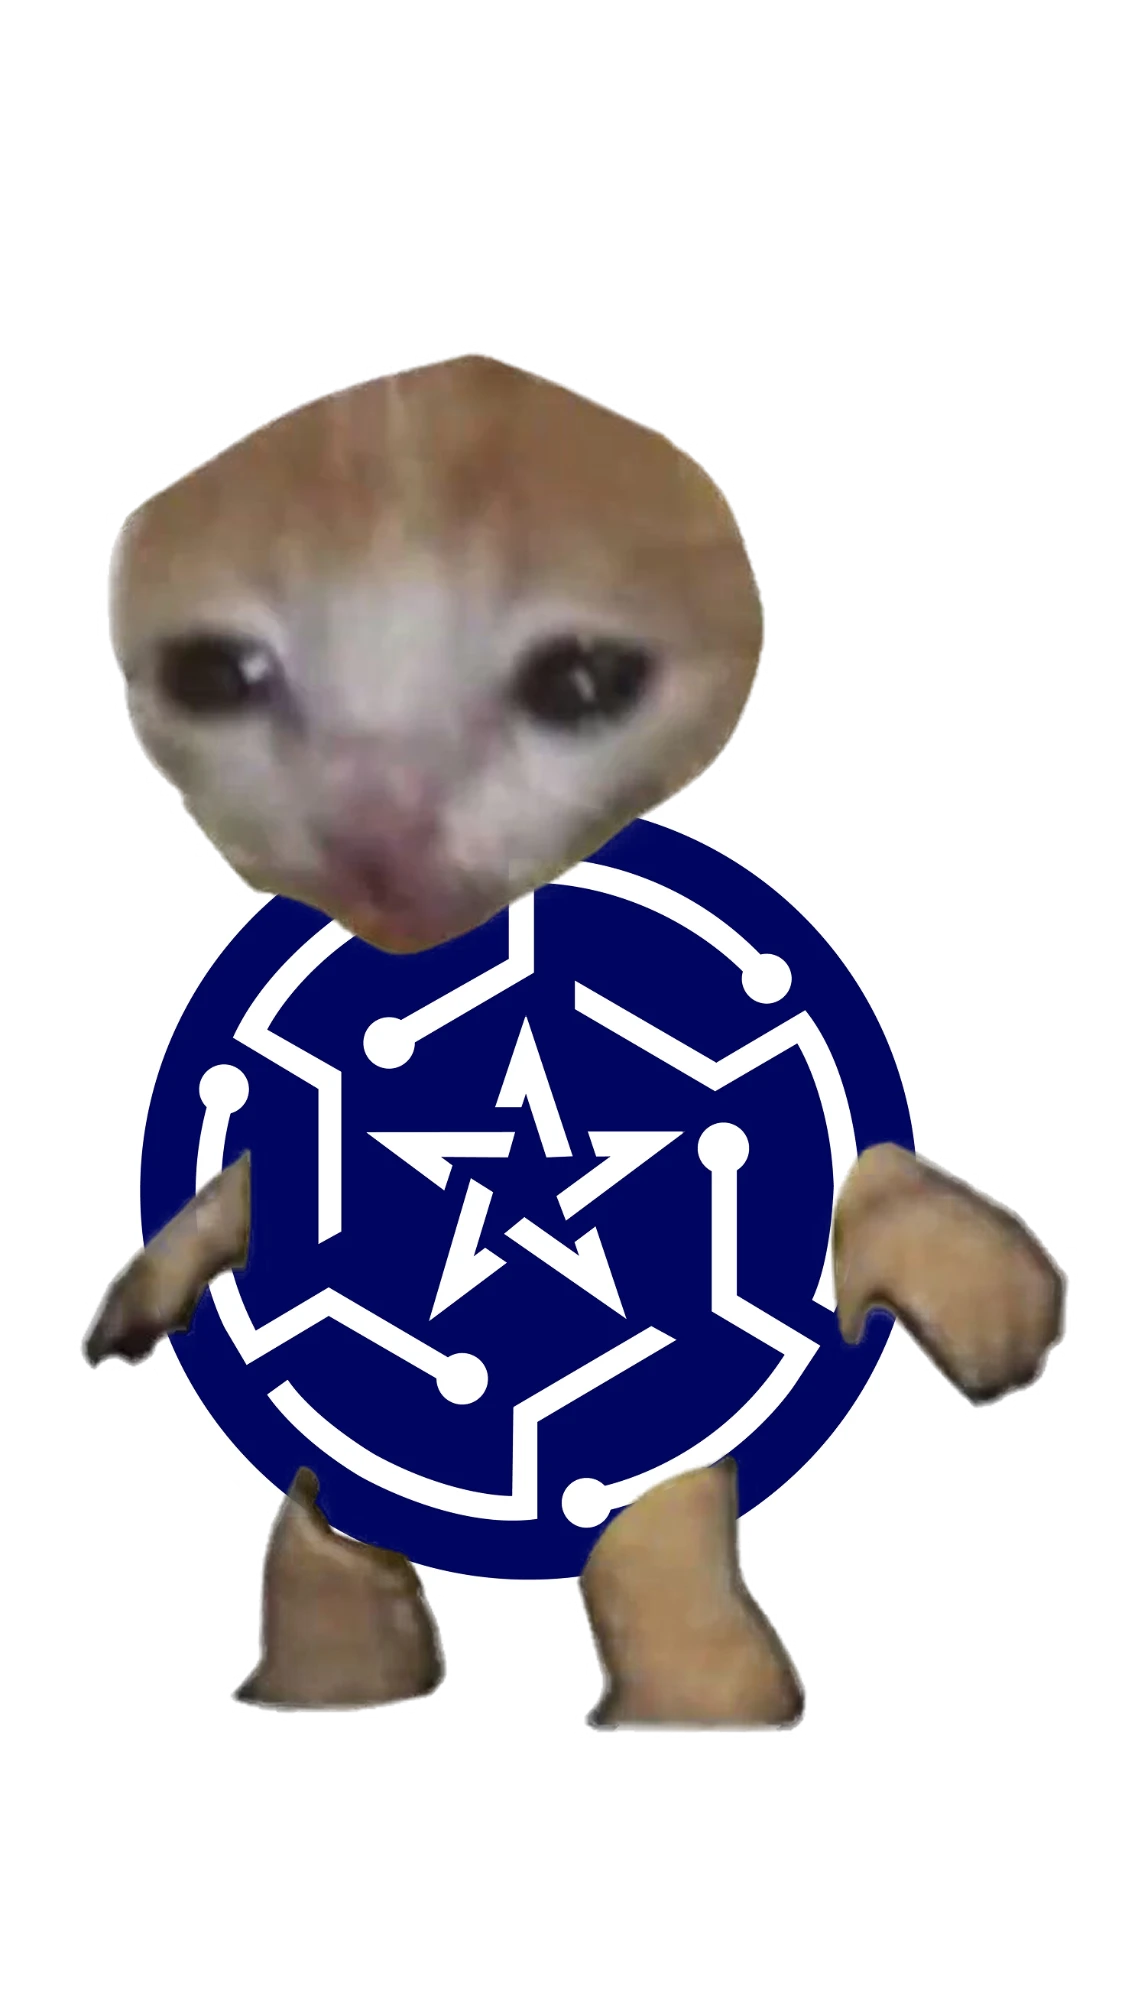
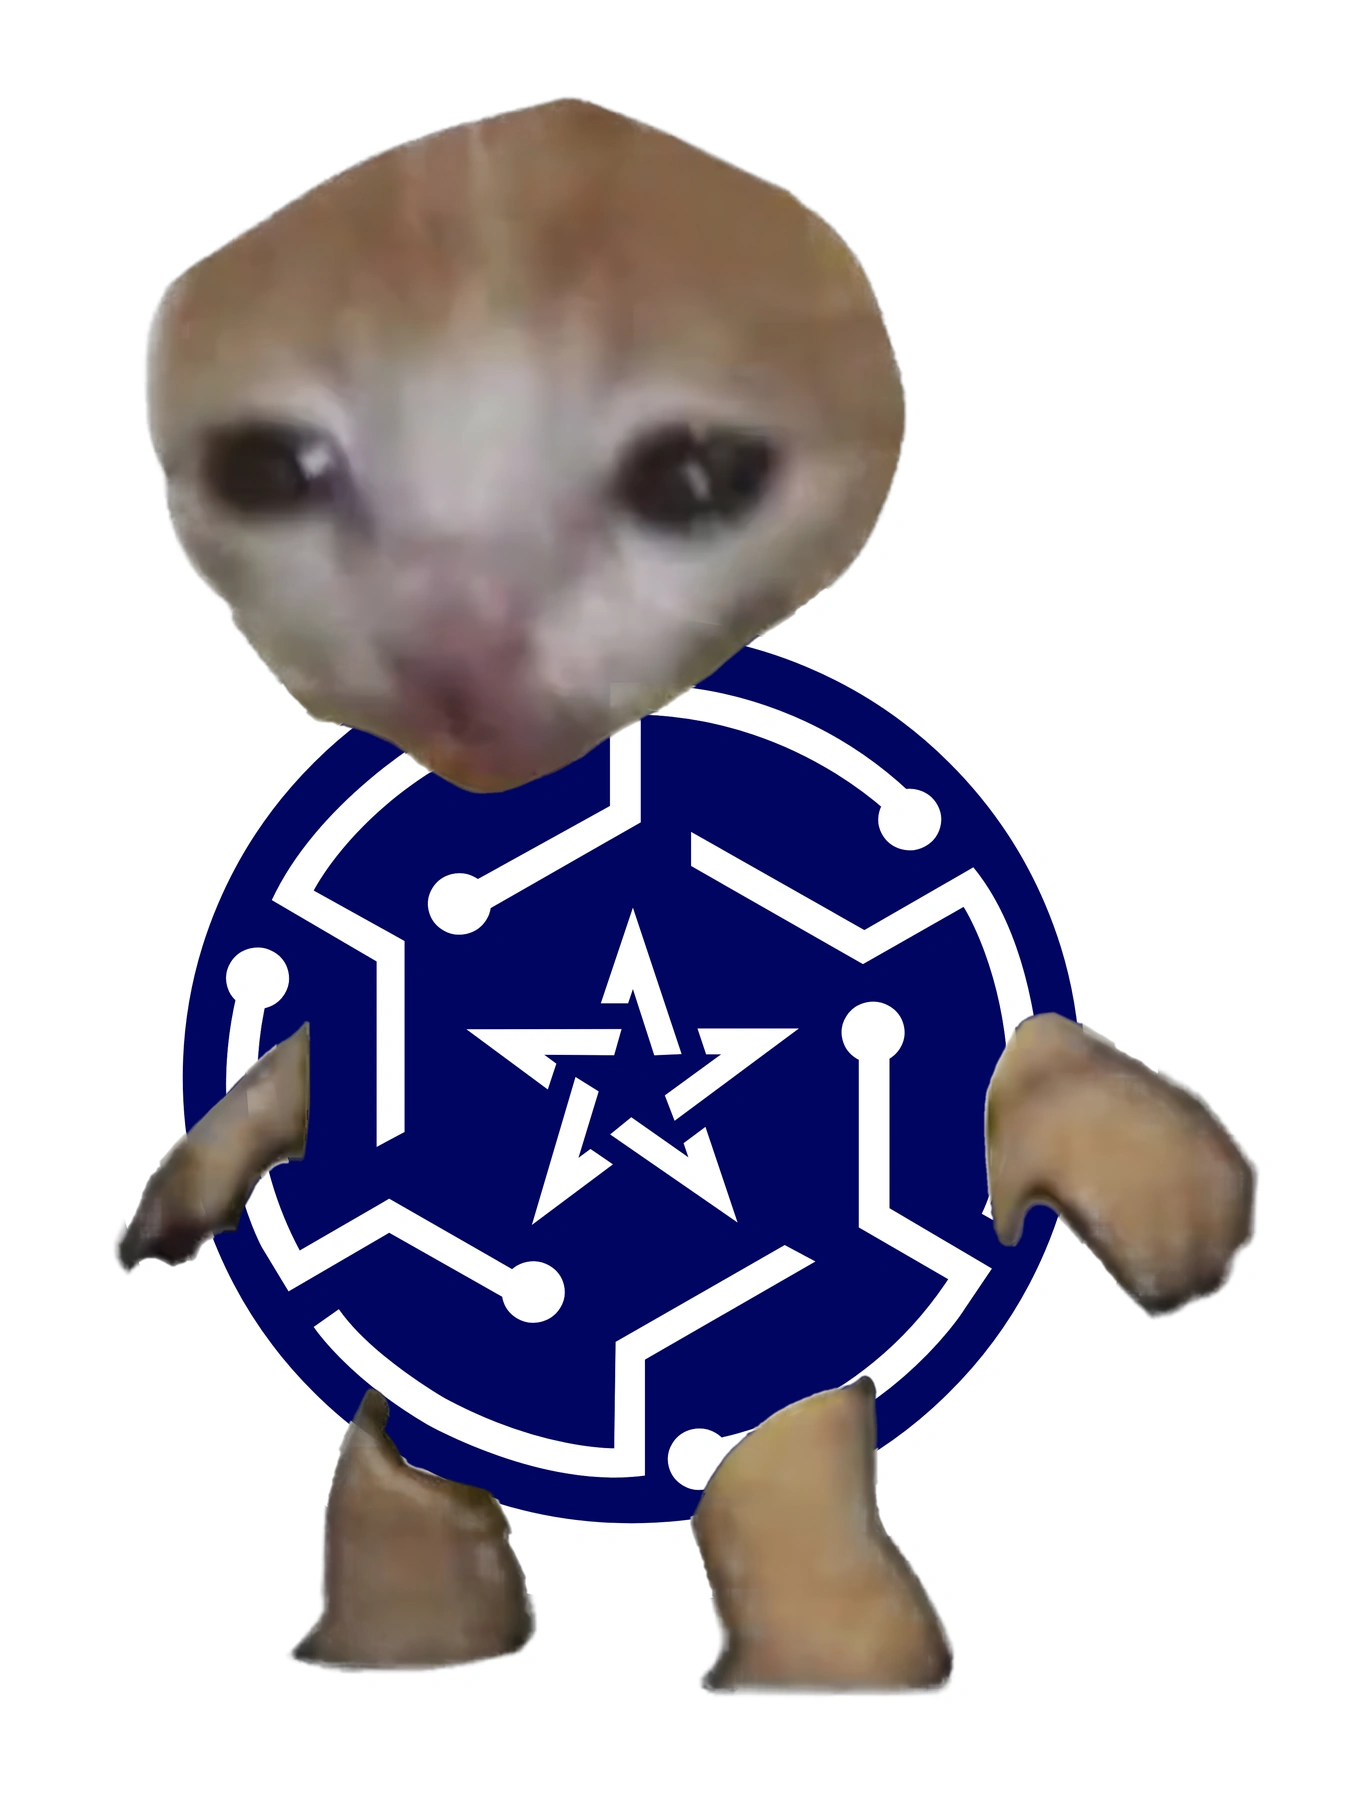
feat(stickers): swap the landing slider to the printed sticker set
The slider now shows the ten stickers going to print: sell.exe, Satoshi
not found, own keys, money_printer.exe, banknote, big type, cat, mouse,
laptop and the club logo. Dog and seal moved to the archive and leave
the site.

- build-stickers trims transparent pixels only; the new artwork has a
  white die-cut edge, so the default trim (top-left colour) ate it
- the navy glitter/holo mask stops below the brand blue, otherwise the
  blue-ground stickers turned into one big glitter sheet

Claude-Session: https://claude.ai/code/session_01RPnvV6zG3XxeHUsyQb9i41

diff --git a/src/components/landing/sticker/assets.ts b/src/components/landing/sticker/assets.ts
@@ -146,13 +146,21 @@ function drawImageSticker(img: HTMLImageElement) {
   m.drawImage(img, 0, 0);
   const px = m.getImageData(0, 0, w, h).data;
 
-  // Lacivert logo pikselleri
+  // Lacivert logo pikselleri (#000560). Üst sınır marka mavisini (#0154FF)
+  // dışarıda tutar: yoksa mavi zeminli sticker'ların tamamı simli olurdu
   const navy = new Uint8ClampedArray(w * h * 4);
   for (let i = 0; i < w * h; i++) {
     const r = px[i * 4]!;
     const g = px[i * 4 + 1]!;
     const b = px[i * 4 + 2]!;
-    if (px[i * 4 + 3]! > 128 && b > 60 && b > r + 35 && b > g + 25 && r < 90)
+    if (
+      px[i * 4 + 3]! > 128 &&
+      b > 60 &&
+      b < 170 &&
+      b > r + 35 &&
+      b > g + 25 &&
+      r < 90
+    )
       navy[i * 4 + 3] = 255;
   }
   const navyCanvas = canvas(w, h);

diff --git a/src/components/landing/sticker/list.ts b/src/components/landing/sticker/list.ts
@@ -5,8 +5,13 @@ export type StickerDef = { id: string; src?: string };
 /** `src` yoksa kulüp logosu `/logo/mark.svg`'den çizilir. */
 export const STICKERS: StickerDef[] = [
   { id: 'logo' },
+  { id: 'sell', src: '/stickers/sell.webp' },
+  { id: 'satoshi', src: '/stickers/satoshi.webp' },
+  { id: 'own-keys', src: '/stickers/own-keys.webp' },
+  { id: 'money-printer', src: '/stickers/money-printer.webp' },
+  { id: 'banknote', src: '/stickers/banknote.webp' },
+  { id: 'big-type', src: '/stickers/big-type.webp' },
   { id: 'cat', src: '/stickers/cat.webp' },
+  { id: 'mouse', src: '/stickers/mouse.webp' },
   { id: 'laptop', src: '/stickers/laptop.webp' },
-  { id: 'dog', src: '/stickers/dog.webp' },
-  { id: 'seal', src: '/stickers/seal.webp' },
 ];
